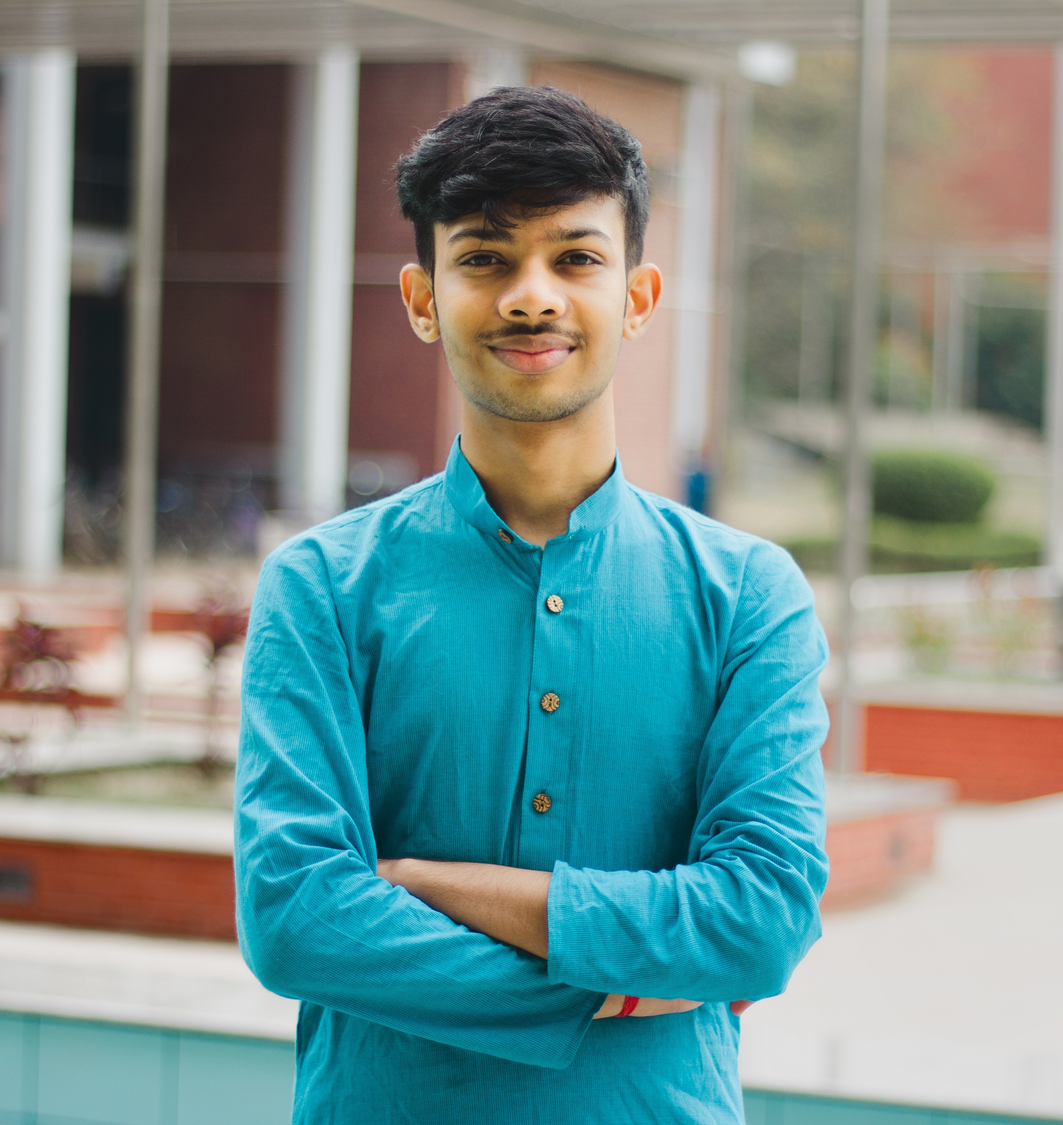
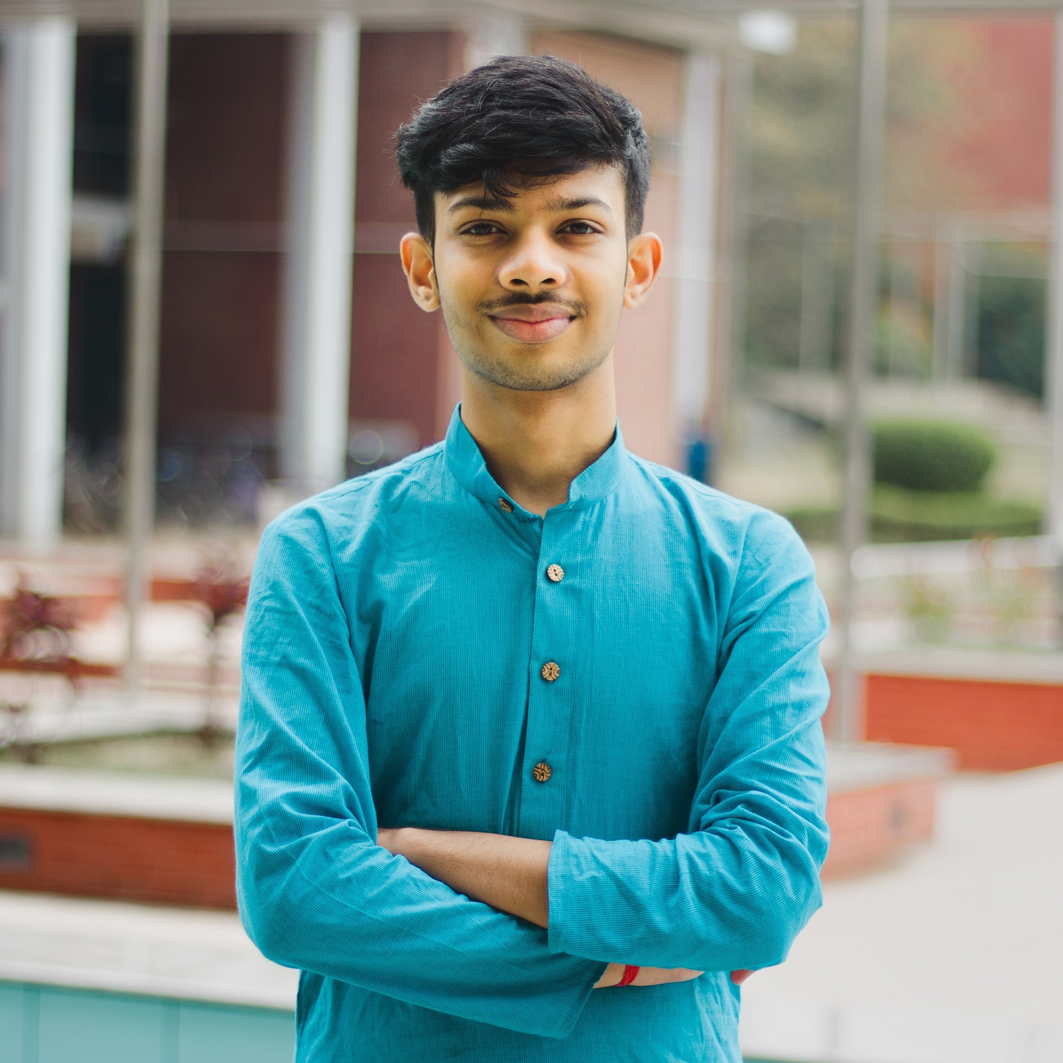
Images corrected

diff --git a/contact/index.html b/contact/index.html
@@ -222,7 +222,7 @@ h1 a{color:#131313; font-weight:bold;}">
     		            			<img src="../images/contact/" alt="" class="background"/>
     		        		</div>
     		        		<div class="profile-thumb-block">
-    		            			<img src="../images/contact/Manit_Ajmera.png" alt="Manit Ajmera" class="profile"/>
+    		            			<img src="../images/contact/Manit_Ajmera.jpg" alt="Manit Ajmera" class="profile"/>
     		        		</div>
     		        		<div class="card-content">
                     				<h2>Manit Ajmera<small>UG General Secretary , Academics and Career </small></h2>
